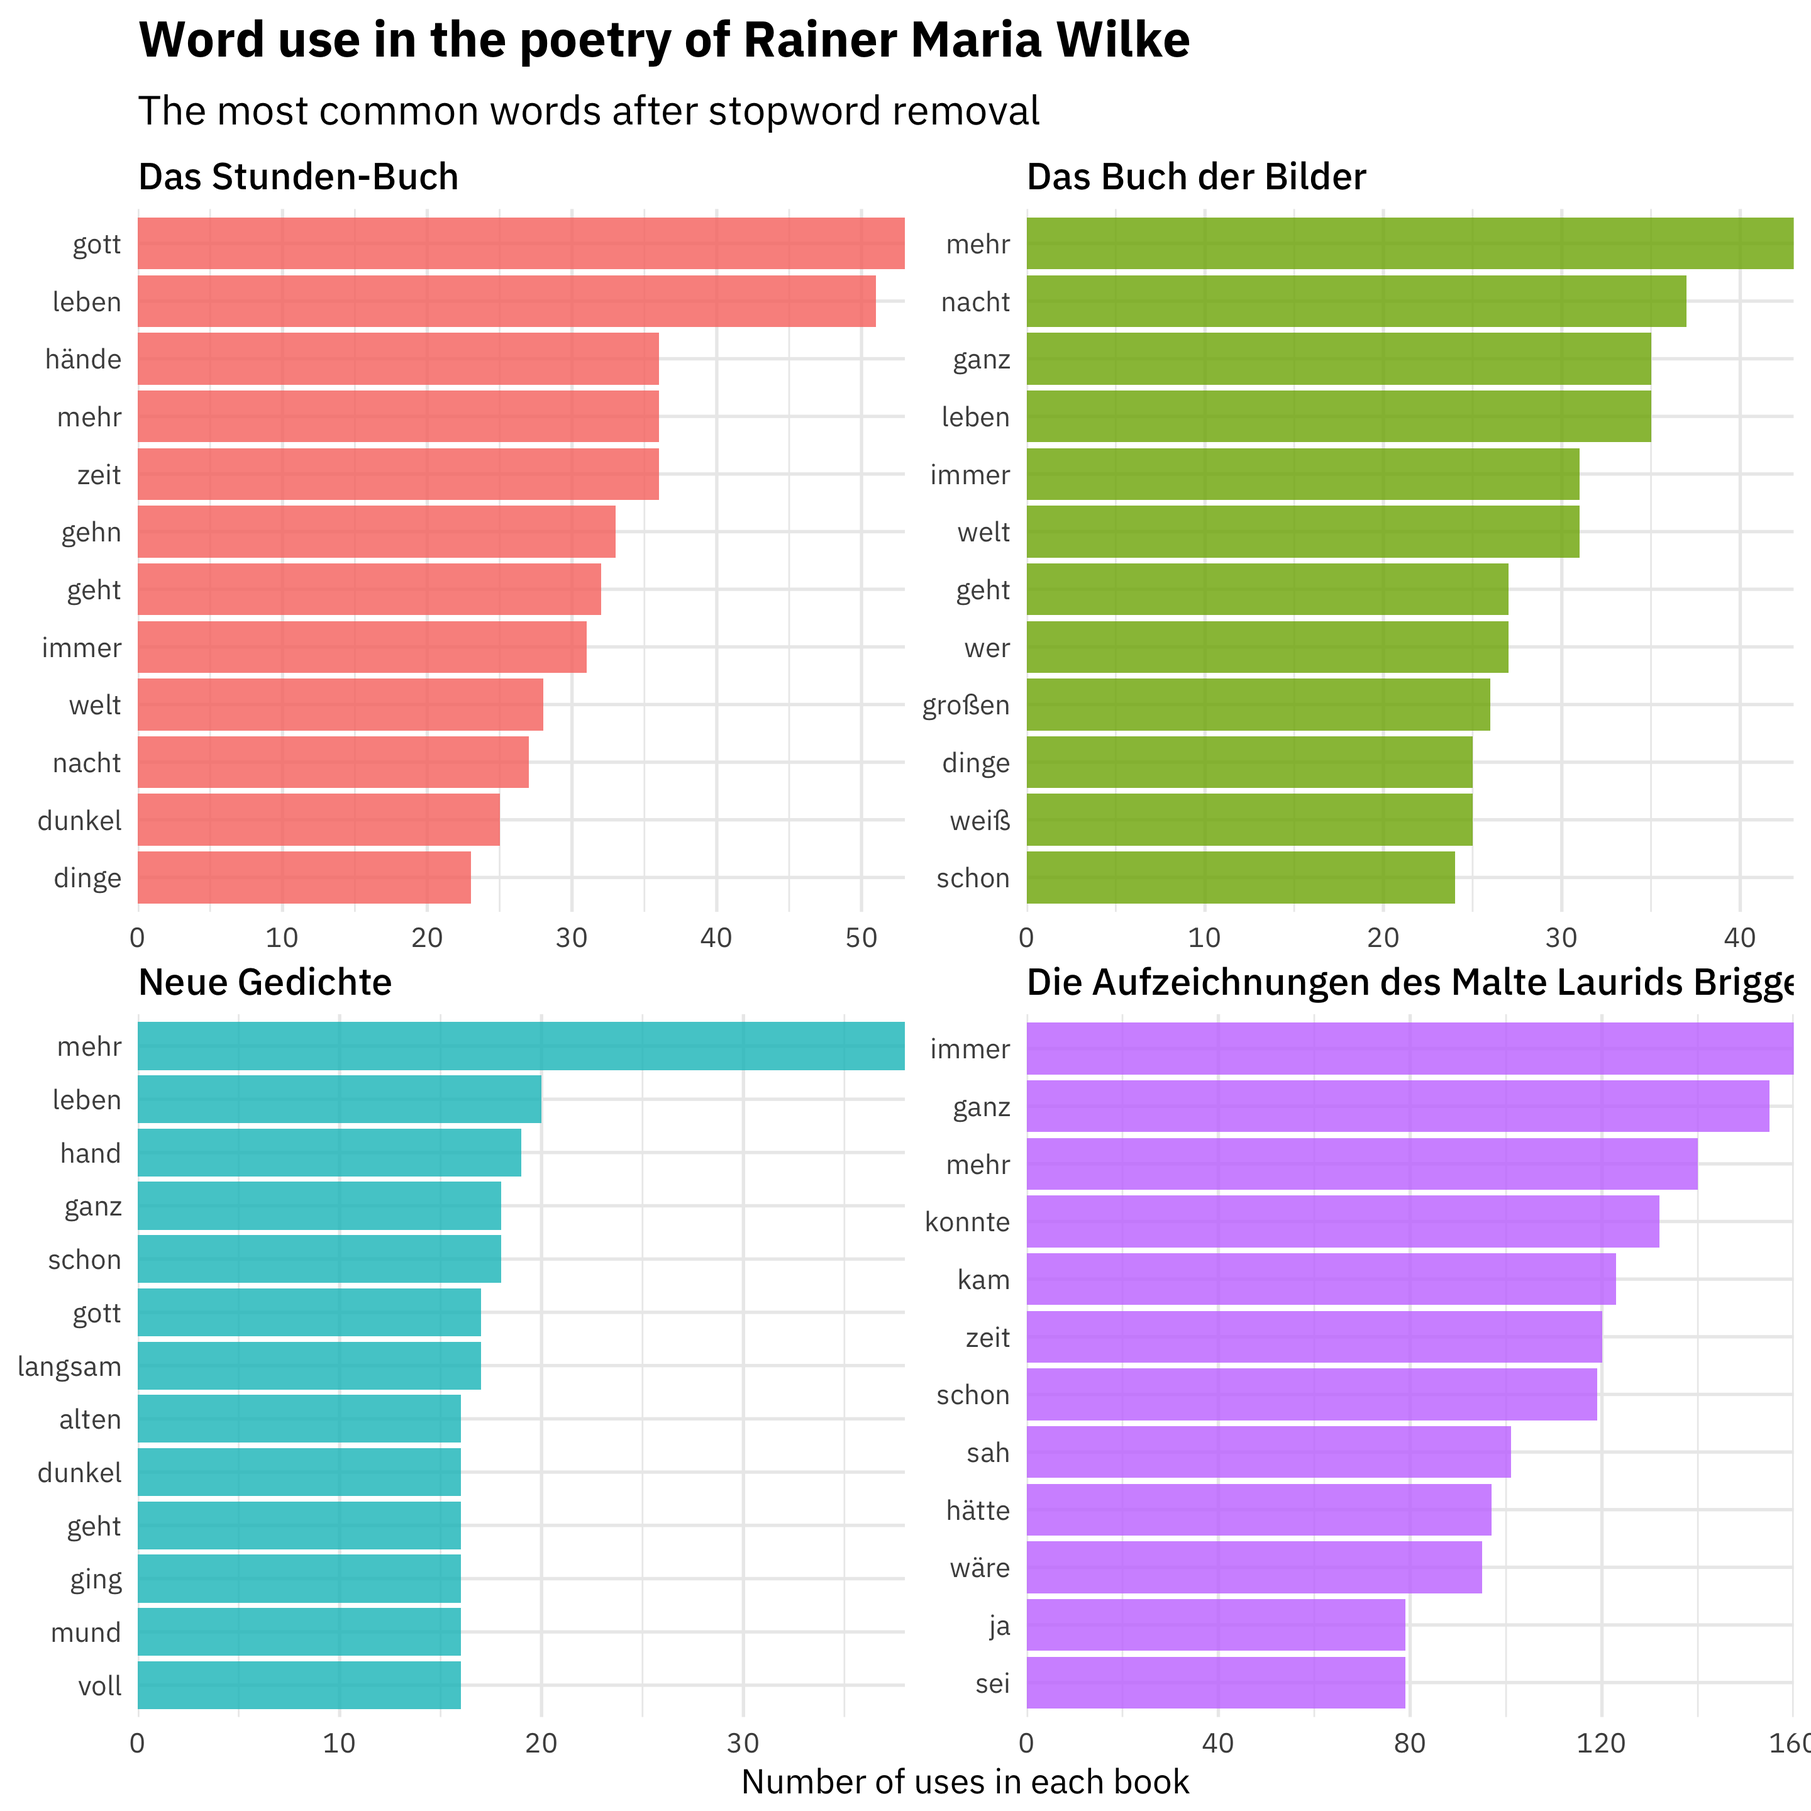
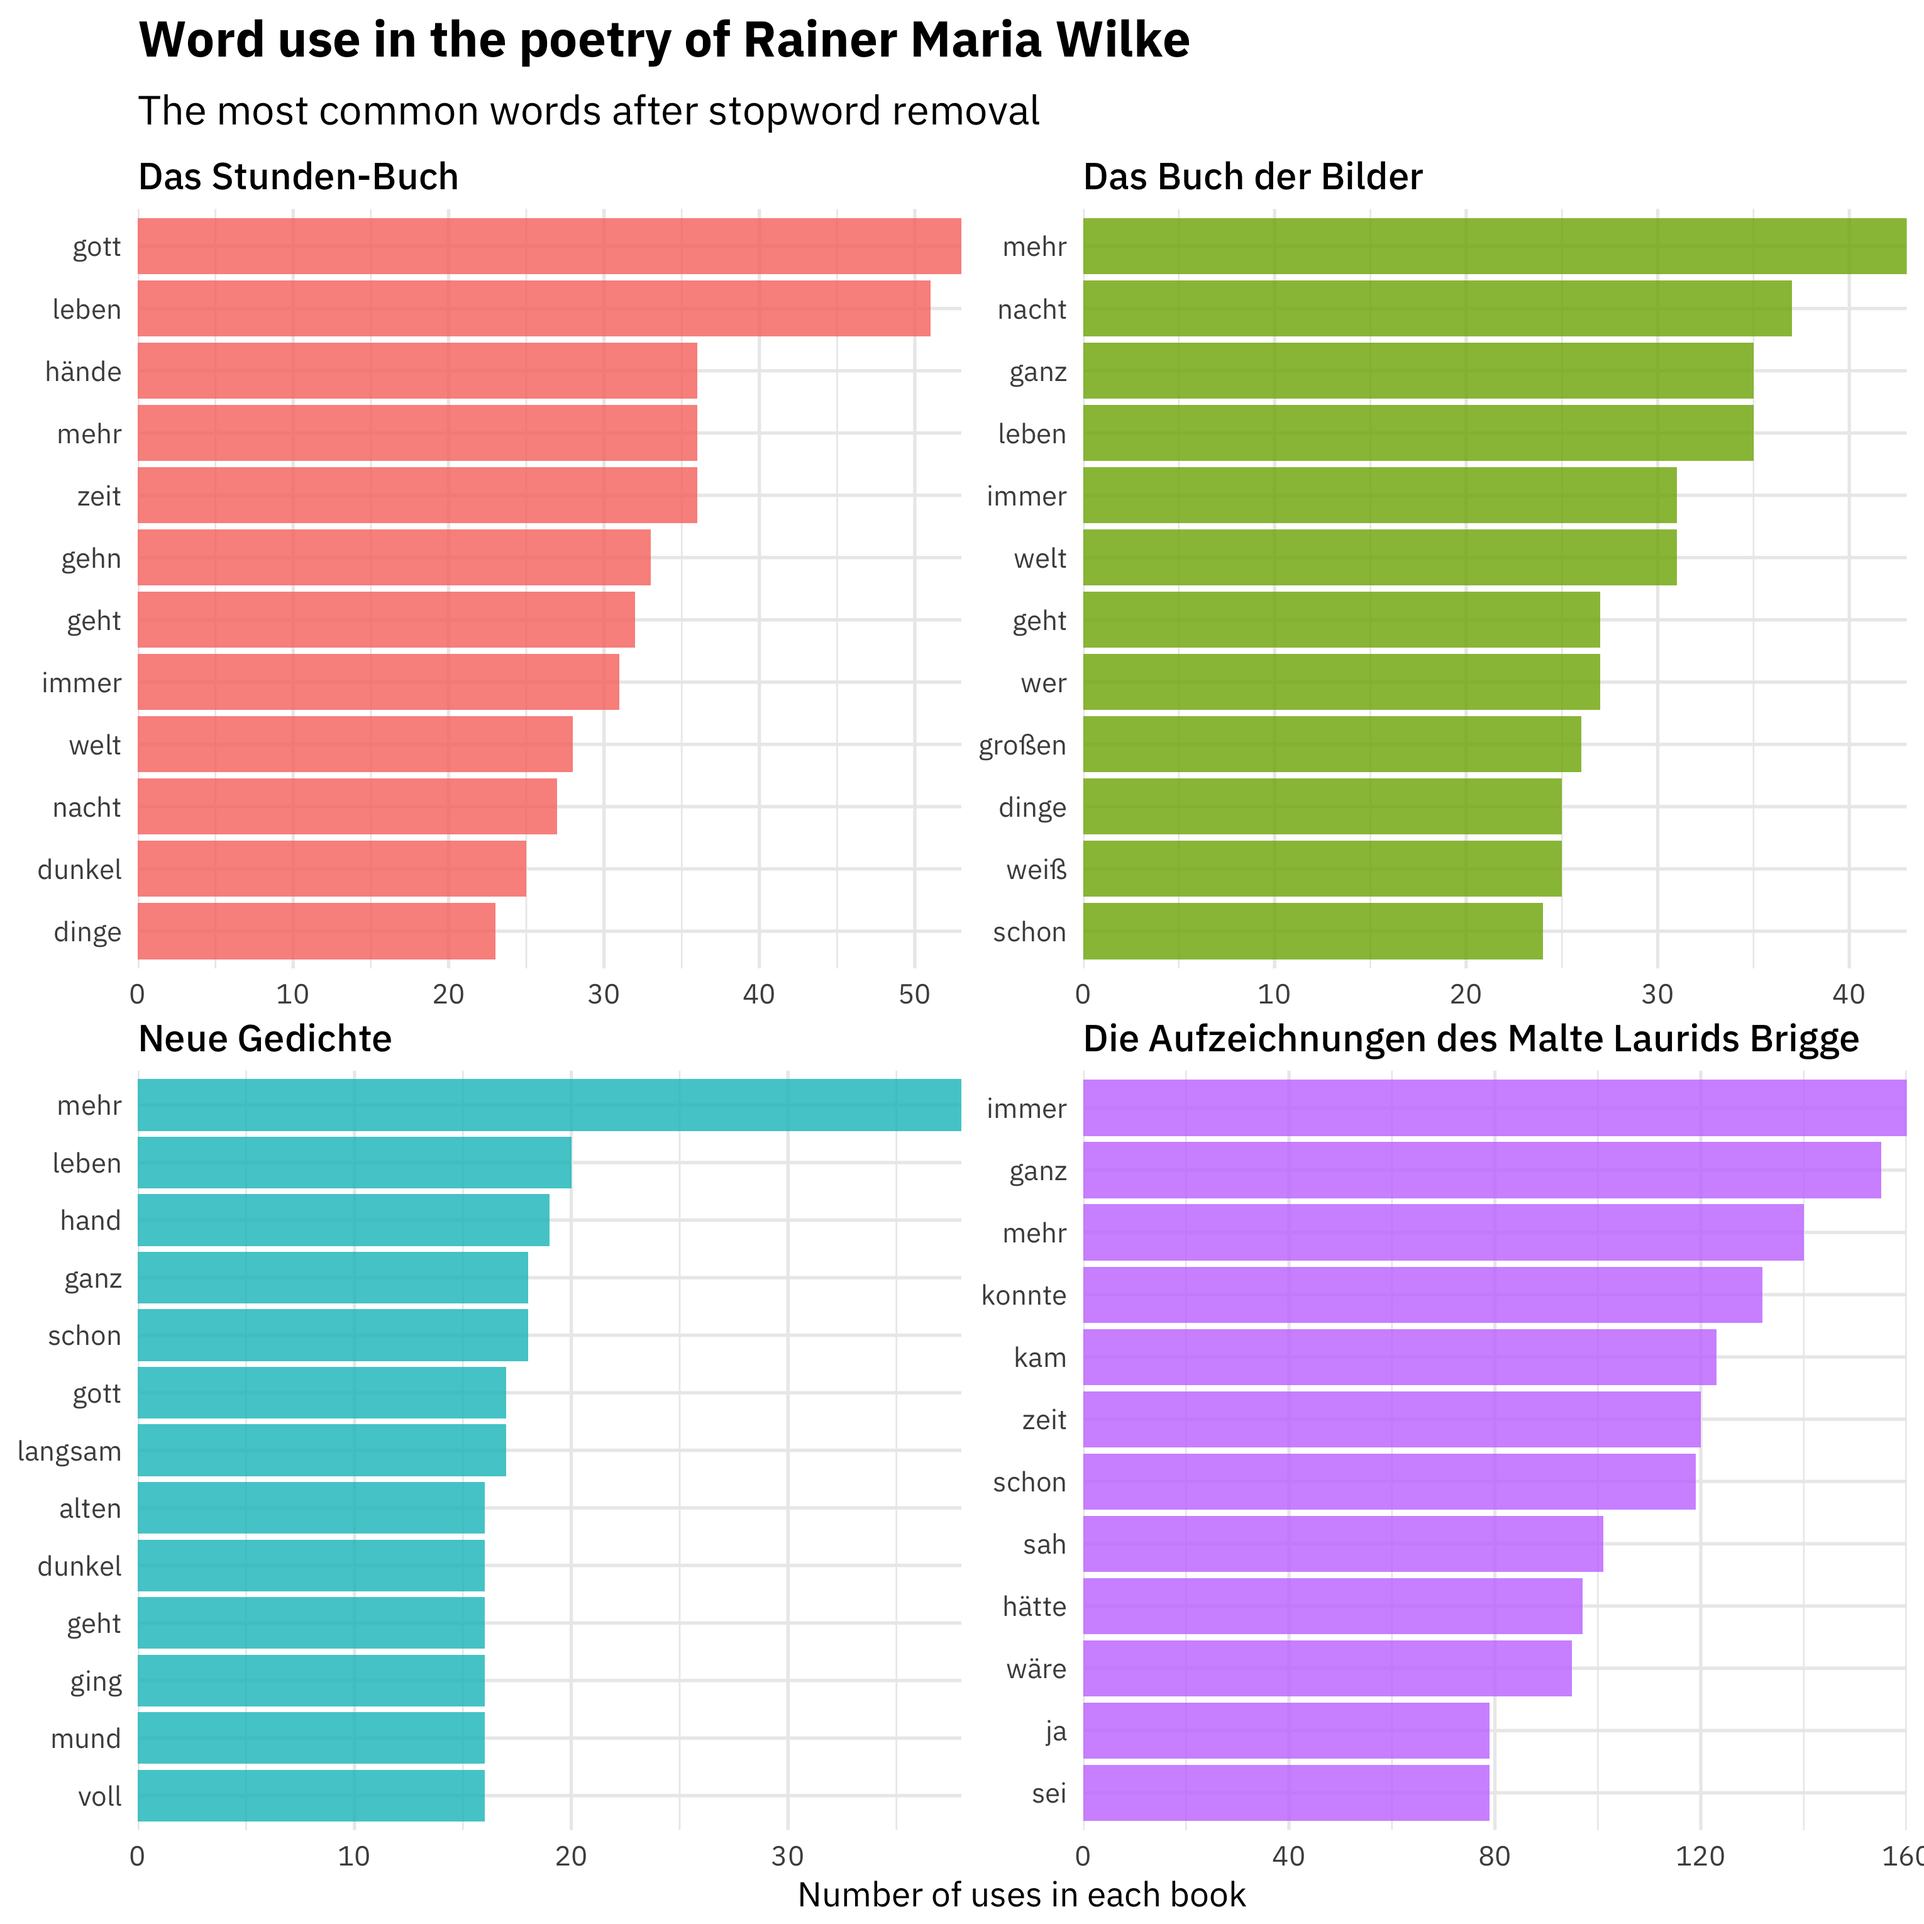
Fix size of Rilke plot

diff --git a/content/blog/2018/2018-01-10-tidytext-0-1-6.html b/content/blog/2018/2018-01-10-tidytext-0-1-6.html
@@ -124,7 +124,7 @@ tidy_rilke</code></pre>
     labs(x = NULL, y = &quot;Number of uses in each book&quot;,
          title = &quot;Word use in the poetry of Rainer Maria Wilke&quot;,
          subtitle = &quot;The most common words after stopword removal&quot;)</code></pre>
-<p><img src="/blog/2018/2018-01-10-tidytext-0-1-6_files/figure-html/unnamed-chunk-3-1.png" width="1440" /></p>
+<p><img src="/blog/2018/2018-01-10-tidytext-0-1-6_files/figure-html/unnamed-chunk-3-1.png" width="1530" /></p>
 <p>The first three works here are poetry (<em>The Book of Hours</em>, <em>The Book of Images</em>, and <em>New Poems</em>) while the last is a book of prose (<em>The Notebooks of Malte Laurids Brigge</em>). We can see the different themes and word use here, even just by counting up word frequencies. Now, if I actually spoke German fluently, I know this would mean more to me, but even to my English-speaking eyes, we can see meaningful trends. These are all still quite common words (the Snowball stopword lists are not terribly large) but some of these works are more religious (God, life) and some more focused on narrating events, and so forth.</p>
 <p>Another addition in this release is a dataset of negators, modals, and adverbs (only in English). These are words that can affect sentiment analysis, either by intensifying words or negating them.</p>
 <pre class="r"><code>nma_words %&gt;%
